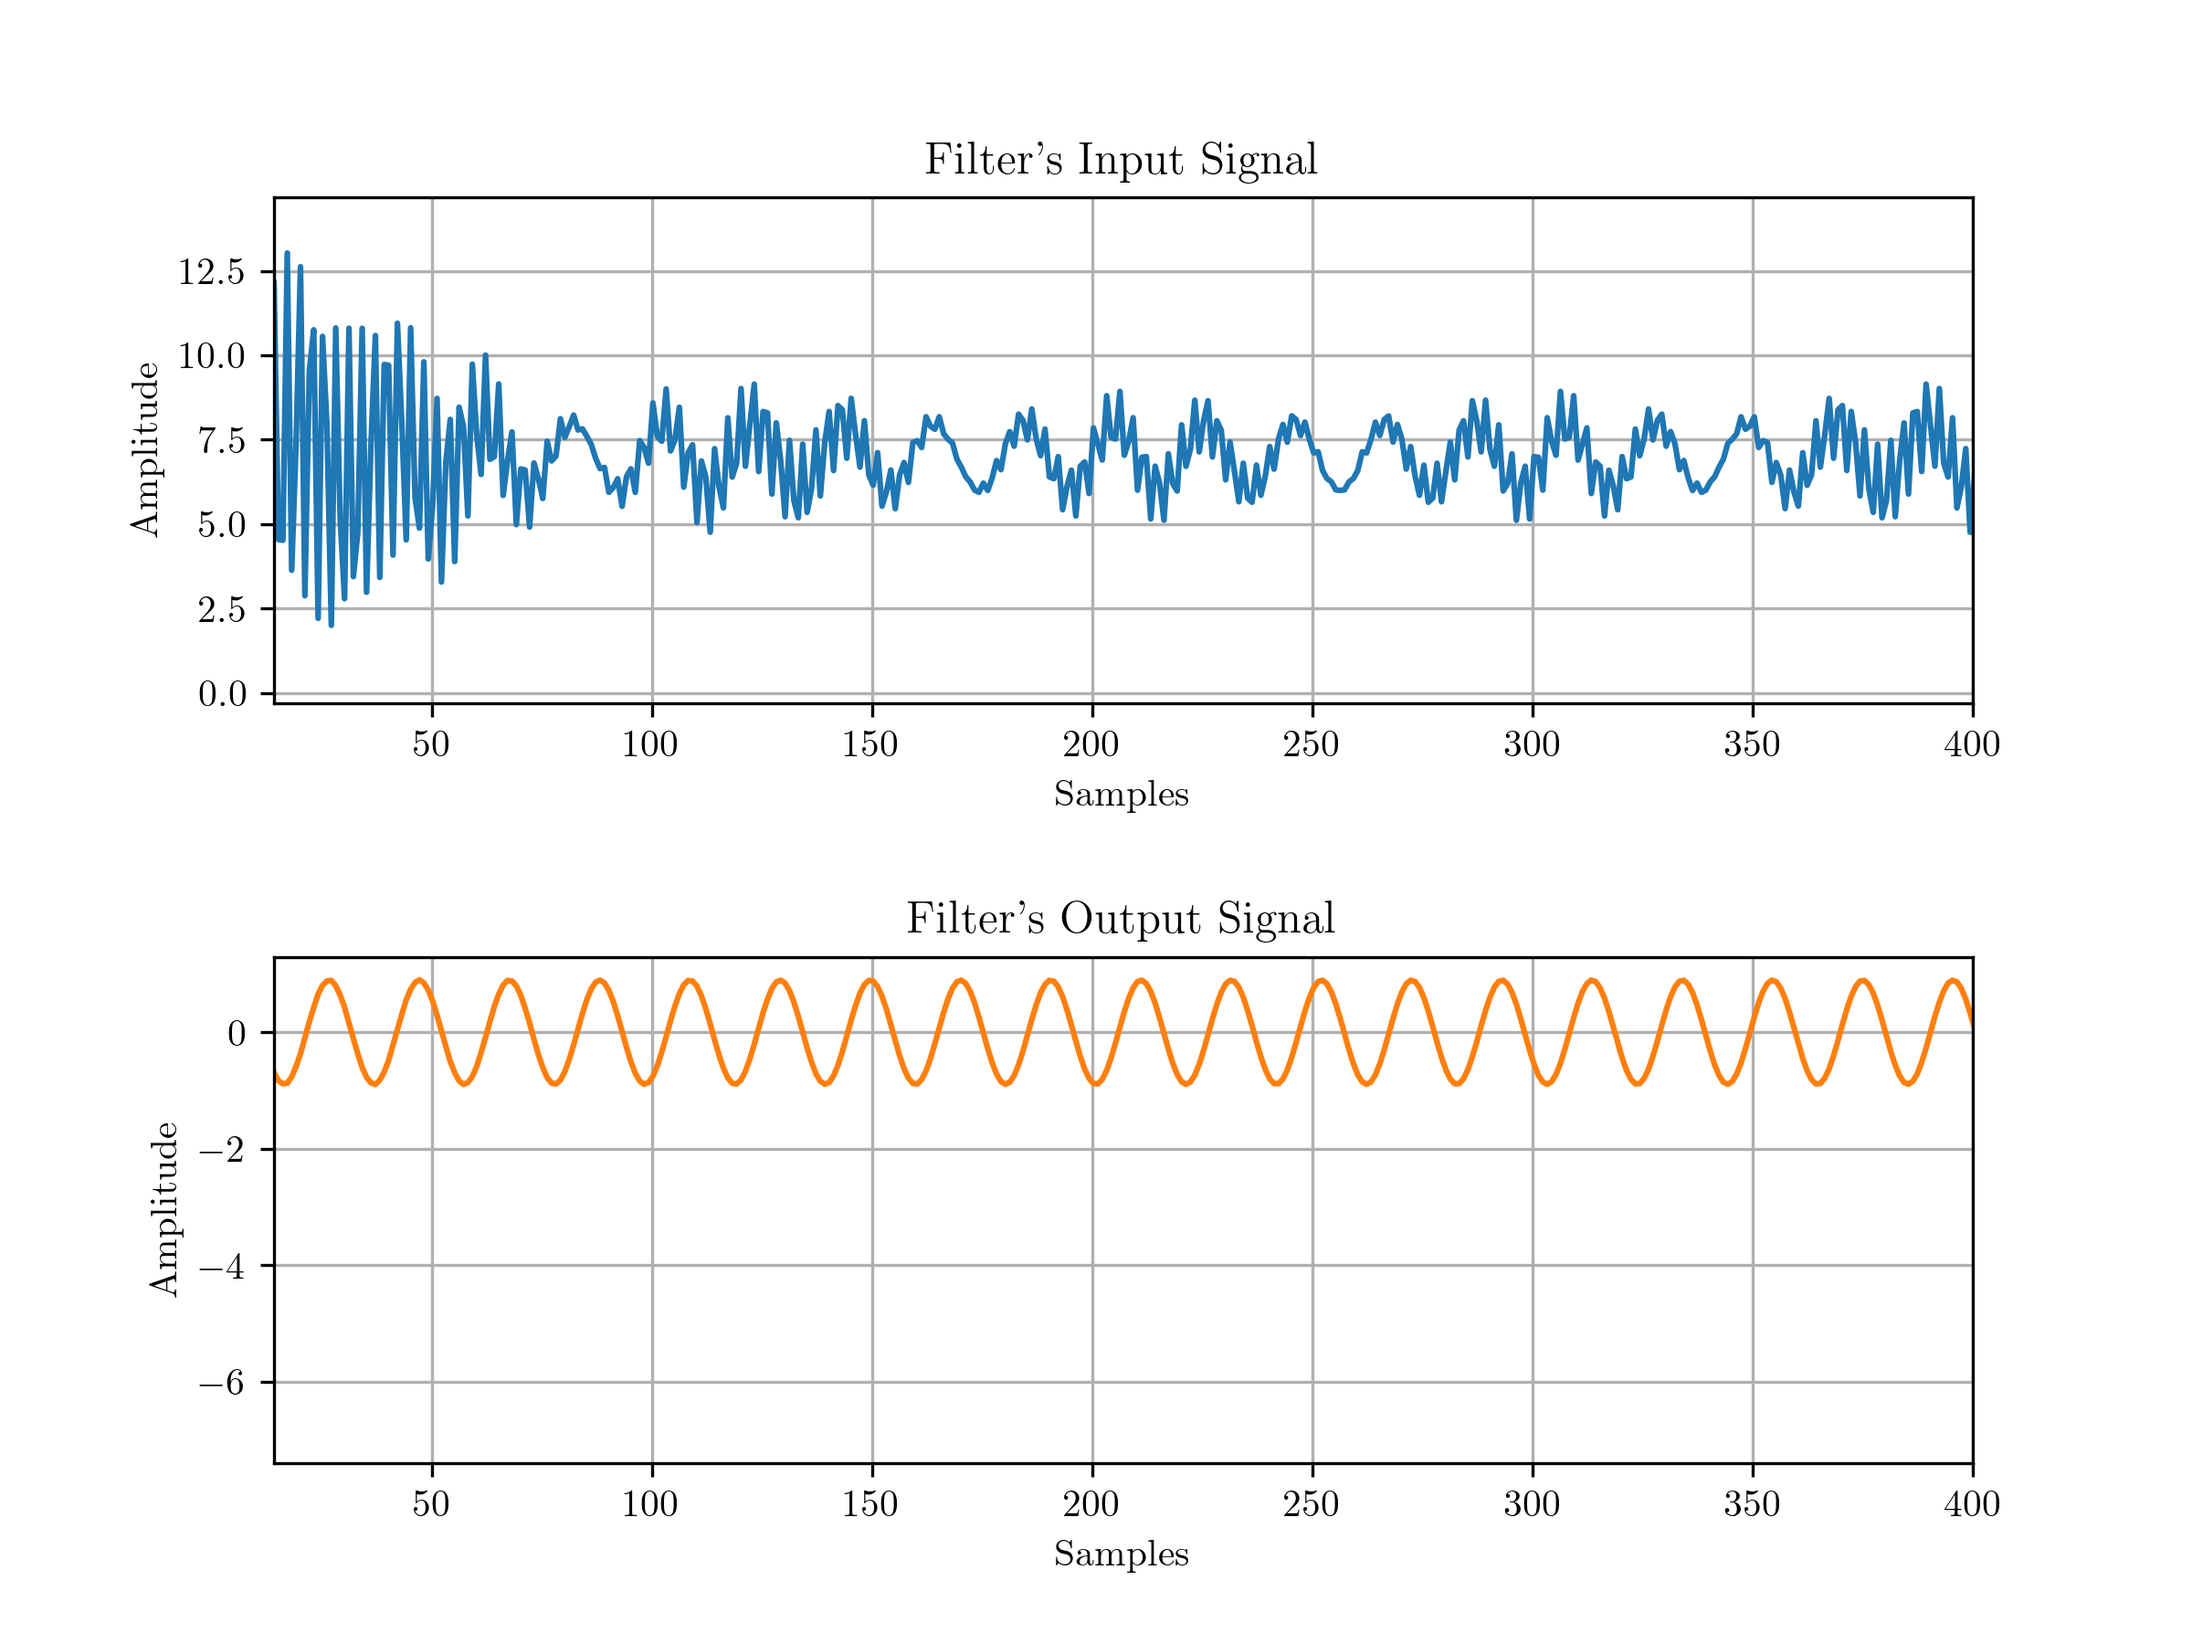
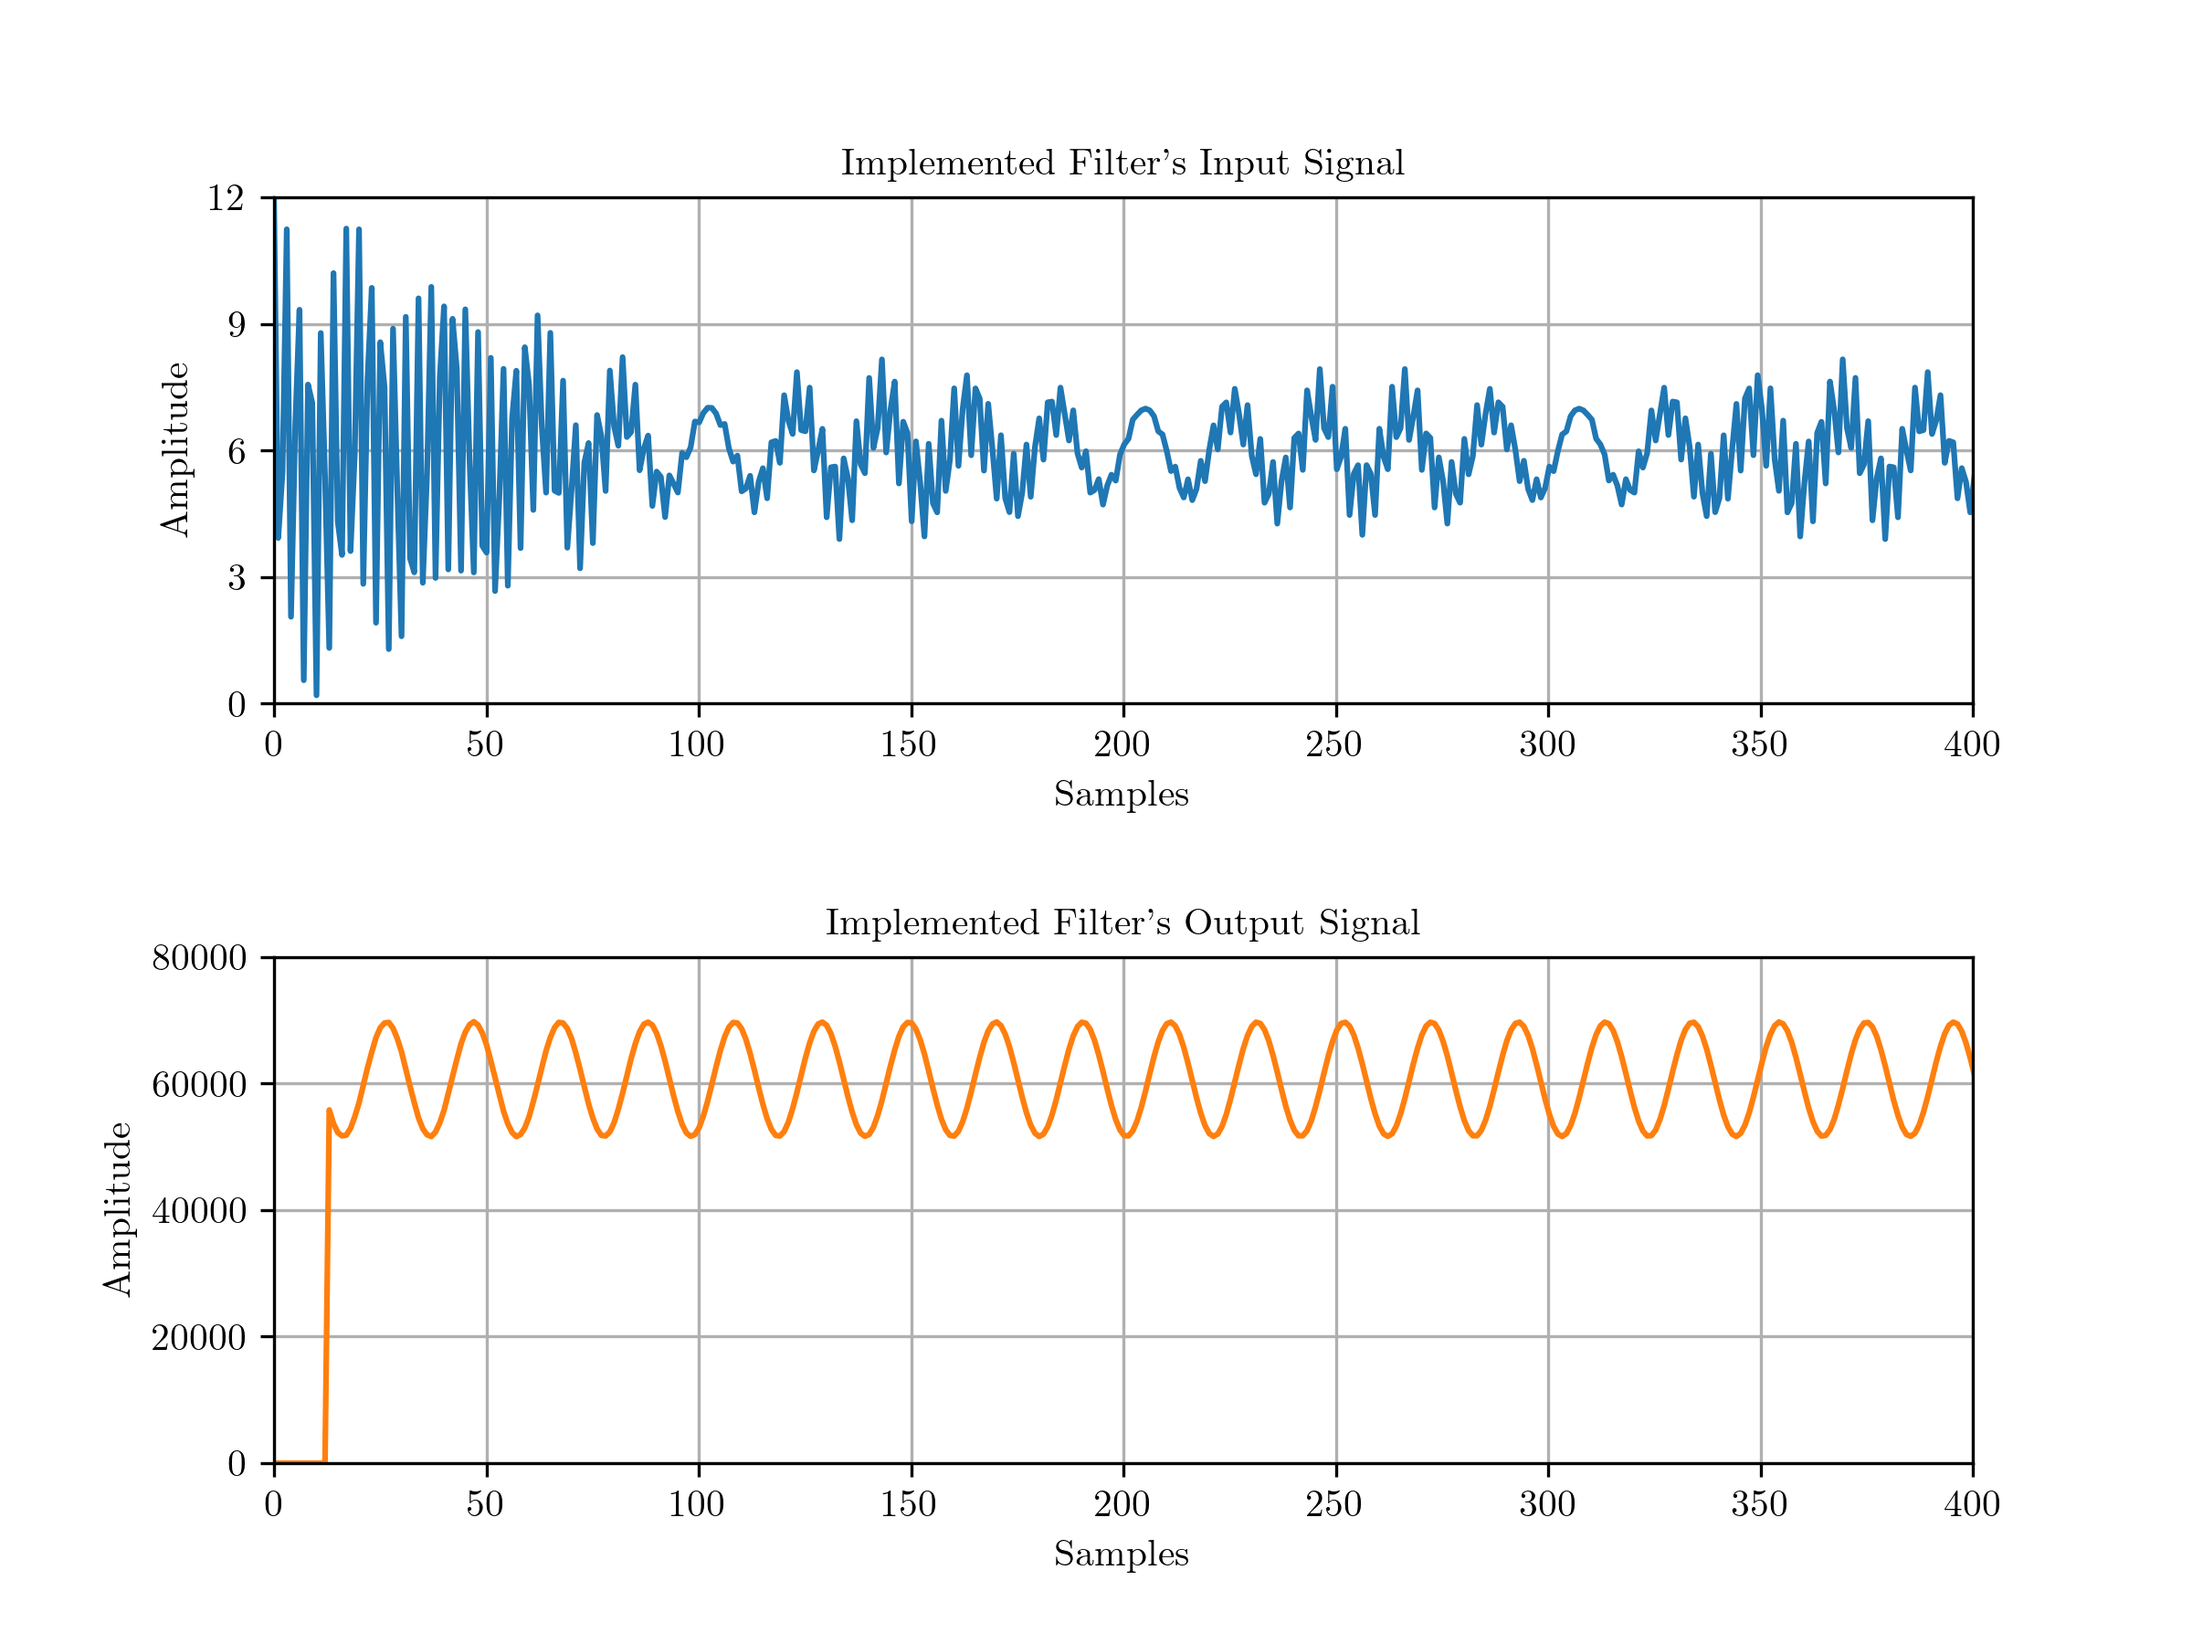
Correcciones menores en prototipo Pyhton. Se agregan comentarios.

diff --git a/TP_Final/Prototipo/FIR_Filter_Prototype_02.py b/TP_Final/Prototipo/FIR_Filter_Prototype_02.py
@@ -44,10 +44,10 @@ def input_signal(f, f_sampling, N):
     x = np.cos(2 * np.pi * f * t) 
 
     # Add harmonics
-    x = x + np.cos(2 * np.pi * 349610 * t) + np.cos(2 * np.pi * 351563 * t) + np.cos(2 * np.pi * 353516 * t) + np.cos(2 * np.pi * 355469 * t) + np.cos(2 * np.pi * 357422 * t) + np.cos(2 * np.pi * 359375 * t) 
+    x = x + np.cos(2 * np.pi * 349610 * t) + np.cos(2 * np.pi * 351563 * t) + np.cos(2 * np.pi * 353516 * t) + np.cos(2 * np.pi * 355469 * t) + np.cos(2 * np.pi * 357422 * t) #+ np.cos(2 * np.pi * 359375 * t) 
 
     # Add DC component
-    x = x + 7;
+    x = x + 6;
 
     # Add noise
     # x = x + np.random.normal(0, 0.5, N)
@@ -148,22 +148,22 @@ def plot_input_output(x,y):
     # Plot x and y in two subplots:
     plt.subplot(2, 1, 1)
     plt.plot(np.linspace(0, N, N), x, color='#1f77b4')  # Plot x
-    plt.title('Filter\'s Input Signal', fontsize=12)  # Set title and font size
+    plt.title('Implemented Filter\'s Input Signal', fontsize=10)  # Set title and font size
     plt.xlabel('Samples', fontsize=10)  # Set x-axis label and font size
     plt.ylabel('Amplitude', fontsize=10)  # Set y-axis label and font size
-    plt.xlim([14, 400]) # Set x-axis limits
-    # plt.ylim([-6, 6])  # Set y-axis limits
-    # plt.yticks(np.arange(-6, 6, 2))  # Cambia el paso según tus necesidades
+    plt.xlim([0, 400]) # Set x-axis limits
+    plt.ylim([0, 12])  # Set y-axis limits
+    plt.yticks(np.arange(0, 13, 3))  # Cambia el paso según tus necesidades
     plt.grid() # Enable grid
 
     plt.subplot(2, 1, 2)
     plt.plot(np.linspace(0, N, N), y, color='#ff7f0e') # Plot y
-    plt.title('Filter\'s Output Signal', fontsize=12)  # Set title and font size
+    plt.title('Implemented Filter\'s Output Signal', fontsize=10)  # Set title and font size
     plt.xlabel('Samples', fontsize=10)  # Set x-axis label and font size
     plt.ylabel('Amplitude', fontsize=10)  # Set y-axis label and font size
-    plt.xlim([14, 400]) # Set x-axis limits
-    # plt.ylim([-6, 6])  # Set y-axis limits
-    # plt.yticks(np.arange(-6, 6, 2))  # Cambia el paso según tus necesidades
+    plt.xlim([0, 400]) # Set x-axis limits
+    plt.ylim([0, 80000])  # Set y-axis limits
+    plt.yticks(np.arange(0, 80001, 20000))  # Cambia el paso según tus necesidades
     plt.grid() # Enable grid
 
     # Adjust subplots layout
@@ -199,7 +199,7 @@ for i in range(M, N):
     # Convolve filter with signal.
     y[i] = np.sum(h * x[i-M+1:i+1])
 
-y = y/sum_coefficients - 7
+# y = y/sum_coefficients - 7
 # h = h/100
 
 plot_input_output(x,y)
